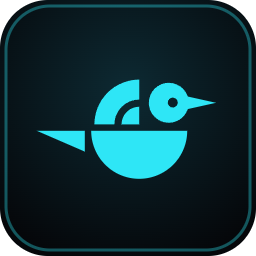
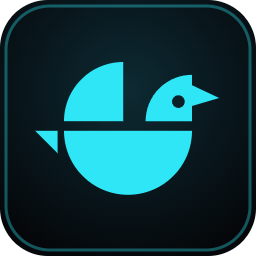
The mockingbird as one circle in parts
A quarter-circle wing, a quarter-circle head with its beak, a half-circle body
and a tail wedge, apart by thin gaps, on a 24-unit grid. It replaces the
earlier mark in the app, the VS Code extension and the IntelliJ plugin.

Changed region(s): [[0.125, 0.2188, 0.875, 0.7812]]

diff --git a/packages/ui/src/app/nav.tsx b/packages/ui/src/app/nav.tsx
@@ -6,16 +6,15 @@ import { groupLabel, MAIN, MORE, MORE_GROUPS, type ScreenDef } from "./screens.j
 const T = COPY.menu;
 
 /**
- * Atticus's mark: a mockingbird built from geometry (docs/brand/mockingbird.svg), each part apart
- * by a thin gap, in the theme's accent.
+ * Atticus's mark: a mockingbird made of one circle in parts (docs/brand/mockingbird.svg), apart
+ * by thin gaps, in the theme's accent.
  */
 const MOCKINGBIRD = [
-  "M7.4 12.6 H19.4 A6 6 0 0 1 7.4 12.6 Z",
-  "M13.4 11.8 H7.8 A5.6 5.6 0 0 1 13.4 6.2 V8.7 A3.1 3.1 0 0 0 10.3 11.8 Z",
-  "M13.4 11.8 H11.2 A2.2 2.2 0 0 1 13.4 9.6 Z",
-  "M17.1 6.6 a2.5 2.5 0 1 1 0 5 a2.5 2.5 0 1 1 0 -5 Z M17.6 8.45 a0.62 0.62 0 1 0 0 1.24 a0.62 0.62 0 1 0 0 -1.24 Z",
-  "M19.4 8.3 L23 9.1 L19.4 9.9 Z",
-  "M0.6 12.6 H6.6 V15.2 Z",
+  "M11.4 11.4 H4 A7.4 7.4 0 0 1 11.4 4 Z",
+  "M20 11.4 H14.2 A5.8 5.8 0 0 1 20 5.6 Z M18.3 8.15 a0.8 0.8 0 1 0 0 1.6 a0.8 0.8 0 1 0 0 -1.6 Z",
+  "M20 6.9 L23.4 8.5 L20 9.5 Z",
+  "M4 12.6 H20 A8 8 0 0 1 4 12.6 Z",
+  "M0.4 12.6 H3.2 V15.4 Z",
 ];
 
 function Logo() {

diff --git a/CHANGELOG.md b/CHANGELOG.md
@@ -6,7 +6,7 @@ All notable changes to Atticus. Versions follow [Semantic Versioning](https://se
 
 ### A mockingbird
 
-- Atticus's mark is a mockingbird built from geometry (`docs/brand/mockingbird.svg`): a half-circle body, a wing of nested quarter circles, a round head, a triangle beak and a long tail wedge, each part apart by a thin gap. It is the app's header and favicon, the VS Code activity bar and Marketplace icon, and the IntelliJ tool window and plugin icon.
+- Atticus's mark is a mockingbird made of one circle in parts (`docs/brand/mockingbird.svg`): a quarter-circle wing, a quarter-circle head with its beak, a half-circle body and a tail wedge, apart by thin gaps. It is the app's header and favicon, the VS Code activity bar and Marketplace icon, and the IntelliJ tool window and plugin icon.
 
 ### Every screen says what is happening
 
